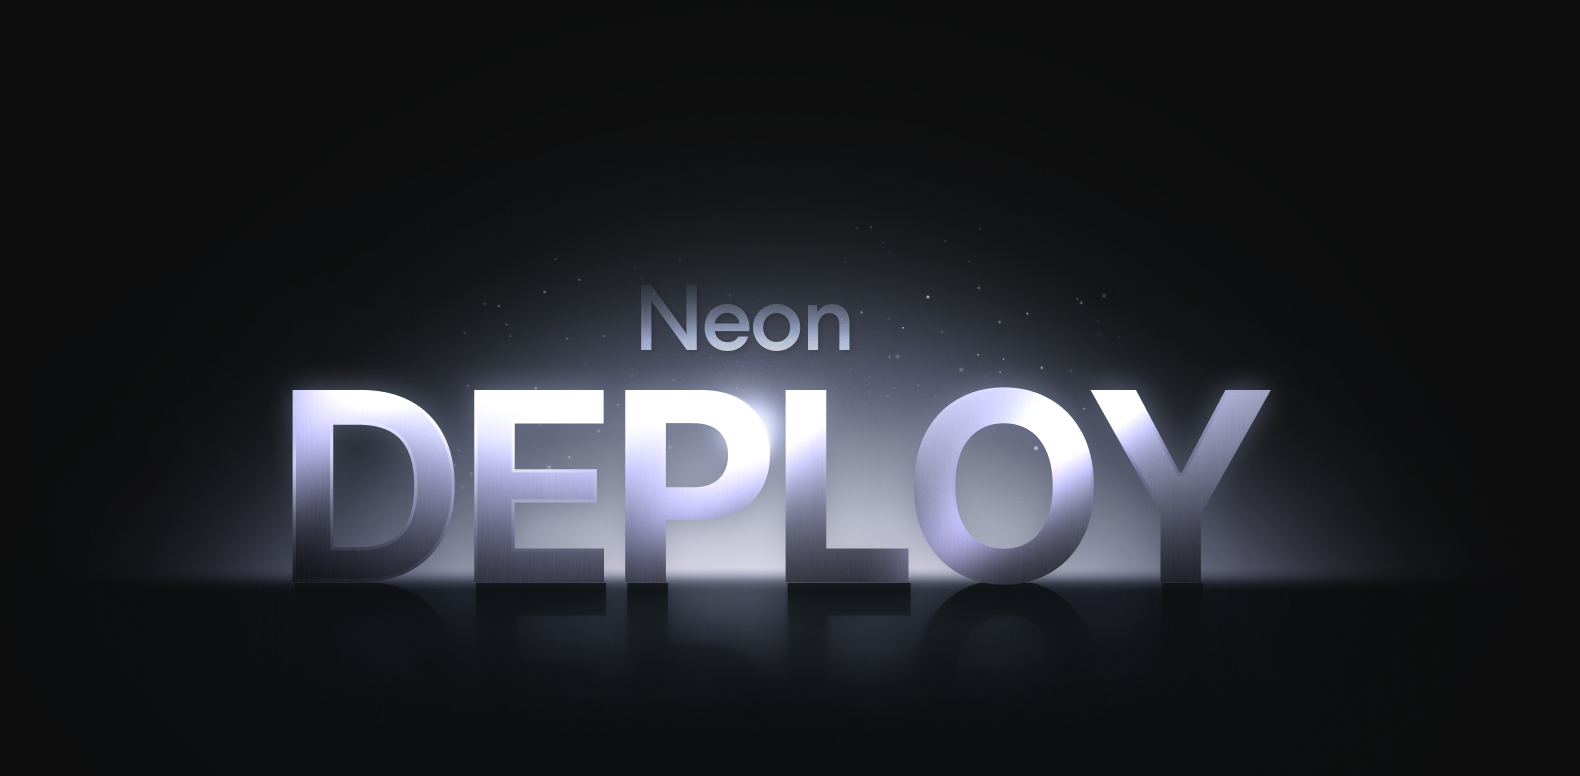
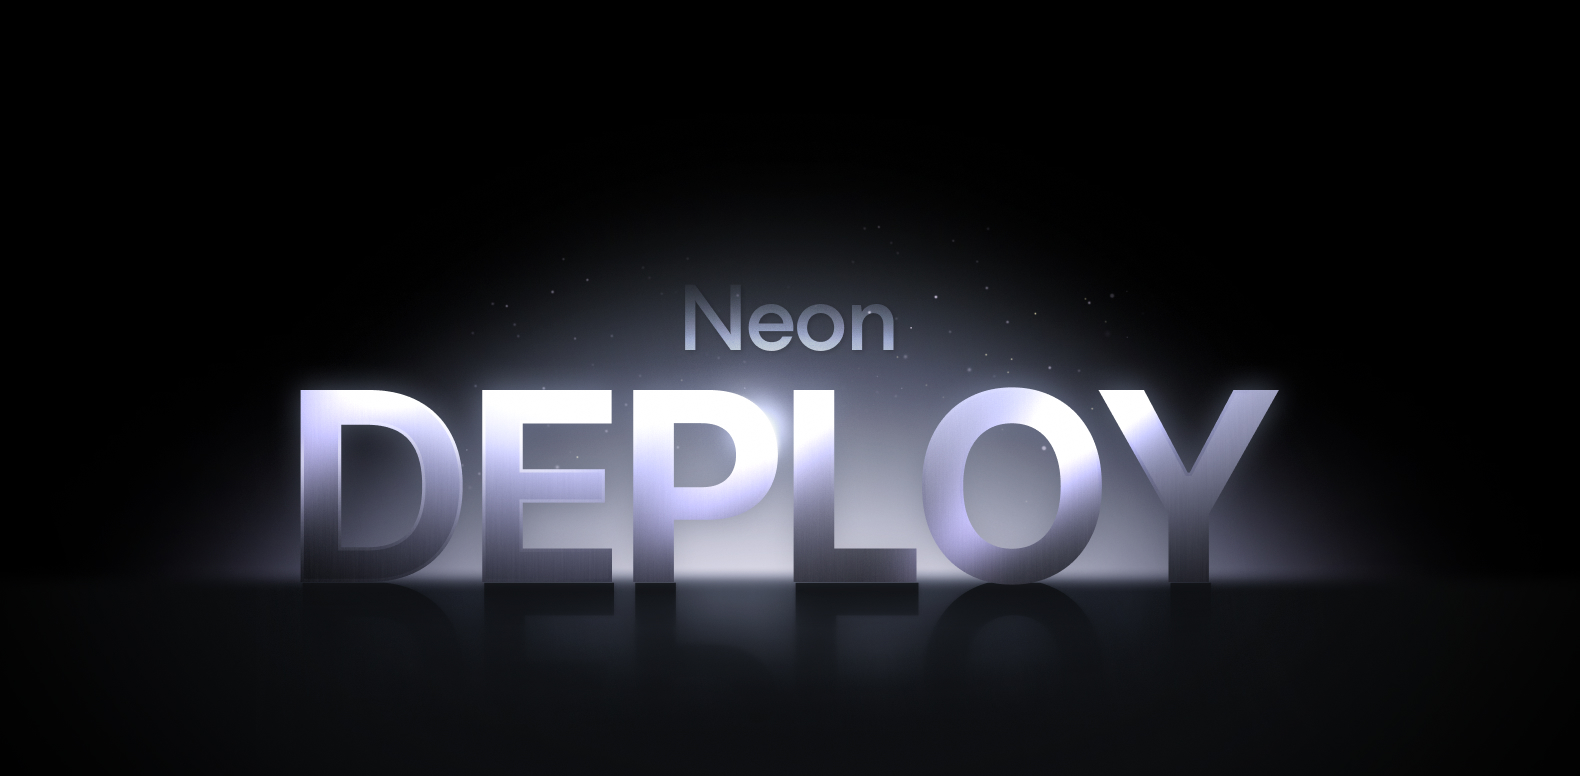
feat: add adaptive for ticket page

diff --git a/src/styles/ticket.css b/src/styles/ticket.css
@@ -34,7 +34,7 @@
 
     @media screen(md) {
       --width: 334px;
-      --height: 700px;
+      --height: 461px;
       --hover-gap-x: 200;
       --hover-gap-y: 170;
     }
@@ -100,7 +100,7 @@
 
     @media screen(md) {
       clip-path: path(
-        'M18.9381 700C8.4789 700 0 691.272 0 680.506L0 19.4937C0 8.7276 8.4789 -1.90735e-05 18.9381 -1.90735e-05H101.808C107.144 -1.90735e-05 112.232 2.31683 115.821 6.38077L138.983 32.6065C142.572 36.6705 147.66 38.9873 152.996 38.9873H181.004C186.34 38.9873 191.428 36.6705 195.017 32.6065L218.179 6.38077C221.768 2.31683 226.856 -1.90735e-05 232.192 -1.90735e-05H315.062C325.521 -1.90735e-05 334 8.7276 334 19.4937L334 680.506C334 691.272 325.521 700 315.062 700H232.192C226.856 700 221.768 697.683 218.179 693.619L195.017 667.393C191.428 663.33 186.34 661.013 181.004 661.013H152.996C147.66 661.013 142.572 663.33 138.983 667.393L115.821 693.619C112.232 697.683 107.144 700 101.808 700H18.9381Z'
+        'M18.9381 463C8.4789 463 0 457.336 0 450.37V12.63C0 5.66403 8.4789 0 18.9381 0H101.808C107.144 0 112.232 1.52624 115.821 4.20228L138.983 21.4728C142.572 24.1488 147.66 25.6751 152.996 25.6751H181.004C186.34 25.6751 191.428 24.1488 195.017 21.4728L218.179 4.20228C221.768 1.52624 226.856 0 232.192 0H315.062C325.521 0 334 5.66403 334 12.63V450.37C334 457.336 325.521 463 315.062 463H232.192C226.856 463 221.768 461.474 218.179 458.798L195.017 441.527C191.428 438.851 186.34 437.325 181.004 437.325H152.996C147.66 437.325 142.572 438.851 138.983 441.527L115.821 458.798C112.232 461.474 107.144 463 101.808 463H18.9381Z'
       );
     }
   }
@@ -126,88 +126,40 @@
 
     @media screen(md) {
       clip-path: path(
-        'M18.8247 698C8.42812 698 0 689.297 0 678.562L0 19.438C0 8.70266 8.42812 -1.74046e-05 18.8247 -1.74046e-05H101.198C106.502 -1.74046e-05 111.56 2.31022 115.127 6.36254L138.151 32.5134C141.719 36.5657 146.776 38.8759 152.08 38.8759H179.92C185.224 38.8759 190.281 36.5657 193.849 32.5134L216.873 6.36254C220.44 2.31022 225.498 -1.74046e-05 230.802 -1.74046e-05H313.175C323.572 -1.74046e-05 332 8.70266 332 19.438L332 678.562C332 689.297 323.572 698 313.175 698H230.802C225.498 698 220.44 695.69 216.873 691.637L193.849 665.487C190.281 661.434 185.224 659.124 179.92 659.124H152.08C146.776 659.124 141.719 661.434 138.151 665.487L115.127 691.637C111.56 695.69 106.502 698 101.198 698H18.8247Z'
+        'M18.8247 461C8.42812 461 0 455.336 0 448.37V12.63C0 5.66403 8.42812 0 18.8247 0H101.198C106.502 0 111.56 1.52624 115.127 4.20228L138.151 21.4728C141.719 24.1488 146.776 25.6751 152.08 25.6751H179.92C185.224 25.6751 190.281 24.1488 193.849 21.4728L216.873 4.20228C220.44 1.52624 225.498 0 230.802 0H313.175C323.572 0 332 5.66403 332 12.63V448.37C332 455.336 323.572 461 313.175 461H230.802C225.498 461 220.44 459.474 216.873 456.798L193.849 439.527C190.281 436.851 185.224 435.325 179.92 435.325H152.08C146.776 435.325 141.719 436.851 138.151 439.527L115.127 456.798C111.56 459.474 106.502 461 101.198 461H18.8247Z'
       );
     }
   }
 
   .ticket-front {
-    @apply relative h-full w-full bg-no-repeat md:before:absolute md:before:right-0 md:before:bottom-[36px] md:before:h-[300px] md:before:w-[200px] md:before:bg-gradient-to-t md:before:from-black md:before:to-transparent;
+    @apply relative h-full w-full bg-no-repeat;
 
     background-size: cover;
     background-position: right 0 bottom 0;
 
-    @media screen(2xl) {
-      background-size: cover;
-    }
-
-    @media screen(lg) {
-      background-size: 348px 293px;
-    }
-
     @media screen(md) {
-      background-size: 312px 454px;
-      background-position: right 0 bottom 30px;
+      background-size: 440px;
+      background-position: center 161px;
     }
 
     &.ticket-front-variant-0 {
-      background-image: url('/images/developer-days/elephant-0-large.png');
-
-      @media screen(lg) {
-        background-image: url('/images/developer-days/elephant-0-medium.png');
-      }
-
-      @media screen(md) {
-        background-image: url('/images/developer-days/elephant-0-small.png');
-      }
+      background-image: url('/images/deploy/deploy-0.jpg');
     }
 
     &.ticket-front-variant-1 {
       background-image: url('/images/deploy/deploy-1.jpg');
-
-      @media screen(lg) {
-        background-image: url('/images/developer-days/elephant-1-medium.png');
-      }
-
-      @media screen(md) {
-        background-image: url('/images/developer-days/elephant-1-small.png');
-      }
     }
 
     &.ticket-front-variant-2 {
       background-image: url('/images/deploy/deploy-2.jpg');
-
-      @media screen(lg) {
-        background-image: url('/images/developer-days/elephant-2-medium.png');
-      }
-
-      @media screen(md) {
-        background-image: url('/images/developer-days/elephant-2-small.png');
-      }
     }
 
     &.ticket-front-variant-3 {
       background-image: url('/images/deploy/deploy-3.jpg');
-
-      @media screen(lg) {
-        background-image: url('/images/developer-days/elephant-3-medium.png');
-      }
-
-      @media screen(md) {
-        background-image: url('/images/developer-days/elephant-3-small.png');
-      }
     }
 
     &.ticket-front-variant-4 {
       background-image: url('/images/deploy/deploy-4.jpg');
-
-      @media screen(lg) {
-        background-image: url('/images/developer-days/elephant-4-medium.png');
-      }
-
-      @media screen(md) {
-        background-image: url('/images/developer-days/elephant-4-small.png');
-      }
     }
   }
 

diff --git a/src/components/pages/developer-days/email-registration-step/email-registration-step.jsx b/src/components/pages/developer-days/email-registration-step/email-registration-step.jsx
@@ -5,13 +5,13 @@ import PropTypes from 'prop-types';
 import Countdown from 'react-countdown';
 
 import SubscriptionForm from 'components/shared/subscription-form';
-import { HUBSPOT_DEVELOPER_DAYS_3_FORM_ID } from 'constants/forms';
+import { HUBSPOT_DEPLOY_FORM_ID } from 'constants/forms';
 import illustration from 'images/deploy/illustration.jpg';
 
 const renderer = ({ days, hours, minutes, seconds, completed }) => {
   if (completed) {
     // Render a completed state
-    return <div>Event has started!</div>;
+    return <div className="text-white font-medium leading-none">Event has started!</div>;
   }
   // Render a countdown
   return (
@@ -45,28 +45,29 @@ const CountdownTimer = () => {
 
 // eslint-disable-next-line no-unused-vars
 const EmailRegistrationStep = ({ onSuccessCallback }) => (
-  <div className="relative pt-[440px] xl:pt-[373px]">
+  <div className="flex flex-col items-center">
     <Image
-      className="absolute w-[1279px] h-auto left-1/2 -translate-x-1/2 -top-[88px] max-w-none xl:-top-[148px]"
+      className="w-[960px] h-auto max-w-none mt-[53px] xl:-mt-20 lg:w-[870px] lg:-mt-[85px] md:w-[630px] xs:w-[420px] xs:-mt-10"
       src={illustration}
       alt="Neon Deploy"
-      width={1279}
-      height={808}
+      width={960}
+      height={604}
+      quality={100}
       priority
     />
-    <div className="flex flex-col justify-center text-center items-center relative z-10">
+    <div className="flex flex-col justify-center text-center items-center relative z-10 -mt-[216px] max-w-[512px] w-full lg:-mt-48 md:-mt-36 xs:-mt-[90px]">
       <div className="relative flex flex-col items-center">
         <CountdownTimer />
-        <div className="relative overflow-hidden mt-3.5">
+        <div className="relative overflow-hidden mt-3.5 sm:mt-2.5">
           <time
-            className="relative text-[32px] tracking-tight flex flex-col leading-[1.2] text-transparent bg-clip-text bg-white"
+            className="relative text-[32px] tracking-tight flex flex-col leading-[1.2] text-transparent bg-clip-text bg-white sm:text-[28px]"
             dateTime="2024-10-01T17:00:00Z"
             style={{
               backgroundImage: 'url(/images/deploy/ellipse.svg)',
               backgroundSize: '294px 63px',
               backgroundRepeat: 'no-repeat',
               backgroundPosition: 'center',
-              maskImage: 'radial-gradient(ellipse at 50% 50%, #D9D9D9 60%, transparent)',
+              maskImage: 'radial-gradient(ellipse at 50% 50%, #D9D9D9 70%, transparent)',
               maskSize: '100%',
               maskRepeat: 'no-repeat',
               maskPosition: 'center',
@@ -76,17 +77,17 @@ const EmailRegistrationStep = ({ onSuccessCallback }) => (
           </time>
         </div>
       </div>
-      <p className="font-light text-lg leading-[1.3] mt-3 text-gray-60 max-w-[448px]">
+      <p className="font-light text-lg leading-[1.3] mt-3 text-gray-60 max-w-[448px] xs:max-w-[320px] sm:text-base">
         Join us for presentations about Postgres, scalability, AI, and using Neon with modern
         developer tools.
       </p>
       <SubscriptionForm
-        className="mt-8 md:mt-7"
+        className="mt-8 lg:mt-6"
         successText="Thanks for registering!"
         submitButtonText="Register"
-        size="sm"
-        localStorageKey="submittedEmailDeveloperDays3Form"
-        formId={HUBSPOT_DEVELOPER_DAYS_3_FORM_ID}
+        size="xs"
+        localStorageKey="submittedEmailDeployForm"
+        formId={HUBSPOT_DEPLOY_FORM_ID}
       />
     </div>
   </div>

diff --git a/src/components/pages/developer-days/dynamic-ticket/dynamic-ticket.jsx b/src/components/pages/developer-days/dynamic-ticket/dynamic-ticket.jsx
@@ -164,7 +164,7 @@ const DynamicTicket = ({
   }, []);
 
   return (
-    <div className="xl:mt-11 lg:mt-10 md:mt-6 md:flex md:flex-col-reverse">
+    <div className="xl:mt-11 lg:mt-10 md:mt-14 md:flex md:flex-col md:gap-y-9">
       <section
         className={clsx('ticket xl:mx-auto', {
           'ticket-blank': isBlankTicket,
@@ -186,28 +186,17 @@ const DynamicTicket = ({
             'bg-ticket-border-variant-4': currentColorSchema === '4',
           })}
         >
-          <div
-            className={clsx('ticket-middle', {
-              // 'bg-ticket-middle-variant-1 md:bg-ticket-middle-variant-1-vertical':
-              //   currentColorSchema === '1',
-              // 'bg-ticket-middle-variant-2 md:bg-ticket-middle-variant-2-vertical':
-              //   currentColorSchema === '2',
-              // 'bg-ticket-middle-variant-3 md:bg-ticket-middle-variant-3-vertical':
-              //   currentColorSchema === '3',
-              // 'bg-ticket-middle-variant-4 md:bg-ticket-middle-variant-4-vertical':
-              //   currentColorSchema === '4',
-            })}
-          >
+          <div className={clsx('ticket-middle')}>
             <div
               className={clsx('ticket-front', {
-                // 'ticket-front-variant-0': isBlankTicket,
+                'ticket-front-variant-0': isBlankTicket,
                 'ticket-front-variant-1': elephantColorSchema === '1',
                 'ticket-front-variant-2': elephantColorSchema === '2',
                 'ticket-front-variant-3': elephantColorSchema === '3',
                 'ticket-front-variant-4': elephantColorSchema === '4',
               })}
             >
-              <div className="ticket-content flex justify-between items-start p-7 pb-6 text-white 2xl:p-6 md:p-5 md:pt-14 md:pb-[61px]">
+              <div className="ticket-content flex justify-between items-start p-7 pb-6 text-white 2xl:p-6 md:p-5 md:pt-20 md:pb-[61px] md:flex-col md:justify-start">
                 <header
                   className={clsx(
                     { 'opacity-20': isBlankTicket },
@@ -246,7 +235,7 @@ const DynamicTicket = ({
                 <footer
                   className={clsx(
                     { 'opacity-20': isBlankTicket },
-                    'order-3 flex items-center gap-2 md:mt-auto'
+                    'order-3 flex items-center gap-2 md:mt-7'
                   )}
                 >
                   <p className="trac whitespace-nowrap font-kallisto text-[36px] font-light leading-none tracking-[0.08em] text-white lg:text-3xl md:text-[28px] xxs:text-[26px]">

diff --git a/src/components/pages/agenda/agenda-table/agenda-table.jsx b/src/components/pages/agenda/agenda-table/agenda-table.jsx
@@ -18,9 +18,9 @@ const AgendaTable = () => {
   };
 
   return (
-    <section className="relative mb-[72px] mt-[164px]">
+    <section className="relative mb-[72px] mt-[164px] xl:mt-20 lg:mt-9">
       <div className="relative mx-auto grid max-w-[1760px] w-full flex-grow grid-cols-12 gap-10 2xl:px-14 xl:grid-cols-1 xl:gap-0 xl:px-11 xl:py-11 lg:px-8 lg:py-9 md:px-4 md:py-4 text-white sm:py-0">
-        <div className="col-start-3 col-span-8 max-w-[1240px] mx-auto 2xl:col-start-1 2xl:col-span-full lg:overflow-x-auto lg:max-w-none lg:-mx-8 md:-mx-4 lg:px-8 md:px-4 sm:overflow-visible sm:px-0 sm:mx-0">
+        <div className="col-start-3 col-span-8 w-full max-w-[1152px] mx-auto 2xl:col-start-1 2xl:col-span-full lg:overflow-x-auto lg:w-auto lg:max-w-none lg:-mx-8 md:-mx-4 lg:px-8 md:px-4 sm:w-full sm:overflow-visible sm:px-0 sm:mx-0">
           <table className="w-full lg:min-w-[680px] sm:min-w-fit">
             <thead className="text-left text-gray-60 text-sm font-medium leading-none border-b border-gray-15 sm:hidden">
               <tr>

diff --git a/src/components/shared/subscription-form/subscription-form.jsx b/src/components/shared/subscription-form/subscription-form.jsx
@@ -24,7 +24,14 @@ const appearAndExitAnimationVariants = {
 const sizeClassNames = {
   sm: {
     form: 'relative max-w-[540px] xl:max-w-[456px] lg:max-w-[464px]',
-    input: 'h-[64px] text-lg pl-6 border xl:pl-5 md:h-[56px]',
+    input: 'h-16 text-lg pl-6 border xl:pl-5 md:h-14',
+    loading: 'right-[7px]',
+    success: 'right-[7px]',
+    stateIcon: 'w-12 h-12',
+  },
+  xs: {
+    form: 'relative max-w-[512px]',
+    input: 'h-16 text-lg pl-6 border xl:pl-5 lg:h-14',
     loading: 'right-[7px]',
     success: 'right-[7px]',
     stateIcon: 'w-12 h-12',
@@ -135,7 +142,7 @@ const SubscriptionForm = ({
 
   return (
     <motion.form
-      className={clsx('xl:!w-auto xl:!opacity-100', className, sizeClassNames[size].form)}
+      className={clsx(className, sizeClassNames[size].form)}
       initial={{ opacity: 0, width: 0 }}
       animate={{ opacity: 1, width: `100%` }}
       transition={{

diff --git a/src/components/shared/social-share/social-share.jsx b/src/components/shared/social-share/social-share.jsx
@@ -15,7 +15,7 @@ const SocialShare = ({ className = null, url }) => {
   return (
     <div
       className={clsx(
-        'pointer-events-none relative z-50 flex items-center xl:justify-center',
+        'pointer-events-none relative z-50 flex items-center xl:justify-center md:flex-col md:gap-y-3.5',
         className
       )}
     >
@@ -44,7 +44,7 @@ const SocialShare = ({ className = null, url }) => {
           </p>
         </Button>
       </div>
-      <h2 className="ml-6 shrink-0 font-sans text-sm leading-[1.375] tracking-[0.04em] text-gray-5 2xl:hidden">
+      <h2 className="ml-6 shrink-0 font-sans text-sm leading-[1.375] tracking-[0.04em] text-gray-5 flat-none md:flat-breaks md:ml-0 text-start">
         Share with <br /> your friends
       </h2>
     </div>

diff --git a/src/constants/forms.js b/src/constants/forms.js
@@ -5,6 +5,7 @@ const HUBSPOT_DEVELOPER_DAYS_1_FORM_ID = '17813831-b436-4033-ba80-18069022078e';
 const HUBSPOT_DEVELOPER_DAYS_2_FORM_ID = 'c6dc1fc9-0d88-44e0-a7b1-b04dfcc7328d';
 const HUBSPOT_DEVELOPER_DAYS_3_FORM_ID = '30f109ec-4c91-435e-baab-94e52ef41c1e';
 const HUBSPOT_CONTACT_SALES_FORM_ID = '65bbbbd1-cb82-4e67-a007-03ac04fc89ef';
+const HUBSPOT_DEPLOY_FORM_ID = 'ed9a95bf-c1a9-41cf-9df6-61c8d2dab7b5';
 
 const FORM_STATES = {
   DEFAULT: 'default',
@@ -21,5 +22,6 @@ export {
   HUBSPOT_DEVELOPER_DAYS_2_FORM_ID,
   HUBSPOT_DEVELOPER_DAYS_3_FORM_ID,
   HUBSPOT_CONTACT_SALES_FORM_ID,
+  HUBSPOT_DEPLOY_FORM_ID,
   FORM_STATES,
 };

diff --git a/src/components/pages/agenda/agenda-table/event/event.jsx b/src/components/pages/agenda/agenda-table/event/event.jsx
@@ -25,7 +25,7 @@ const Event = ({
       role={bio ? 'button' : 'row'}
       onClick={openModal}
     >
-      <td className="py-4 pr-4 sm:pr-0 sm:py-0 sm:mt-3.5 sm:flex sm:justify-between sm:items-center xs:flex-col">
+      <td className="py-4 pr-4 sm:pr-0 sm:py-0 sm:mt-3.5 sm:flex sm:justify-between sm:items-center xs:items-start xs:flex-col">
         <div
           className={clsx(
             'flex items-center gap-x-2.5 group sm:w-full',

diff --git a/next.config.js b/next.config.js
@@ -21,11 +21,11 @@ module.exports = {
       //   destination: '/stage',
       //   permanent: true,
       // },
-      {
-        source: '/agenda',
-        destination: '/stage',
-        permanent: true,
-      },
+      // {
+      //   source: '/agenda',
+      //   destination: '/stage',
+      //   permanent: true,
+      // },
     ];
   },
   images: {

diff --git a/src/styles/main.css b/src/styles/main.css
@@ -27,4 +27,20 @@
       @apply border-b border-transparent text-primary-1 transition-[border-color] duration-200 hover:border-primary-1;
     }
   }
+
+  .flat-none br {
+    content: none;
+  }
+
+  .flat-none br::after {
+    content: none;
+  }
+
+  .flat-breaks br {
+    content: '';
+  }
+
+  .flat-breaks br::after {
+    content: ' ';
+  }
 }

diff --git a/src/app/page.jsx b/src/app/page.jsx
@@ -44,8 +44,8 @@ const DeveloperDays2Page = () => (
     />
     <div className="relative mx-auto max-w-[1760px] w-full 2xl:px-14 xl:px-11 xl:py-11 lg:px-8 lg:py-9 md:px-4 md:py-4">
       <EmailRegistrationStep />
-      <AgendaTable />
     </div>
+    <AgendaTable />
   </Layout>
 );
 

diff --git a/src/utils/get-metadata.js b/src/utils/get-metadata.js
@@ -34,7 +34,6 @@ export default function getMetadata({
     },
     manifest: `${SITE_URL}/manifest.json`,
     robots,
-    themeColor: '#0c0d0d',
     icons: {
       icon: '/favicon/favicon.png',
       apple: [
